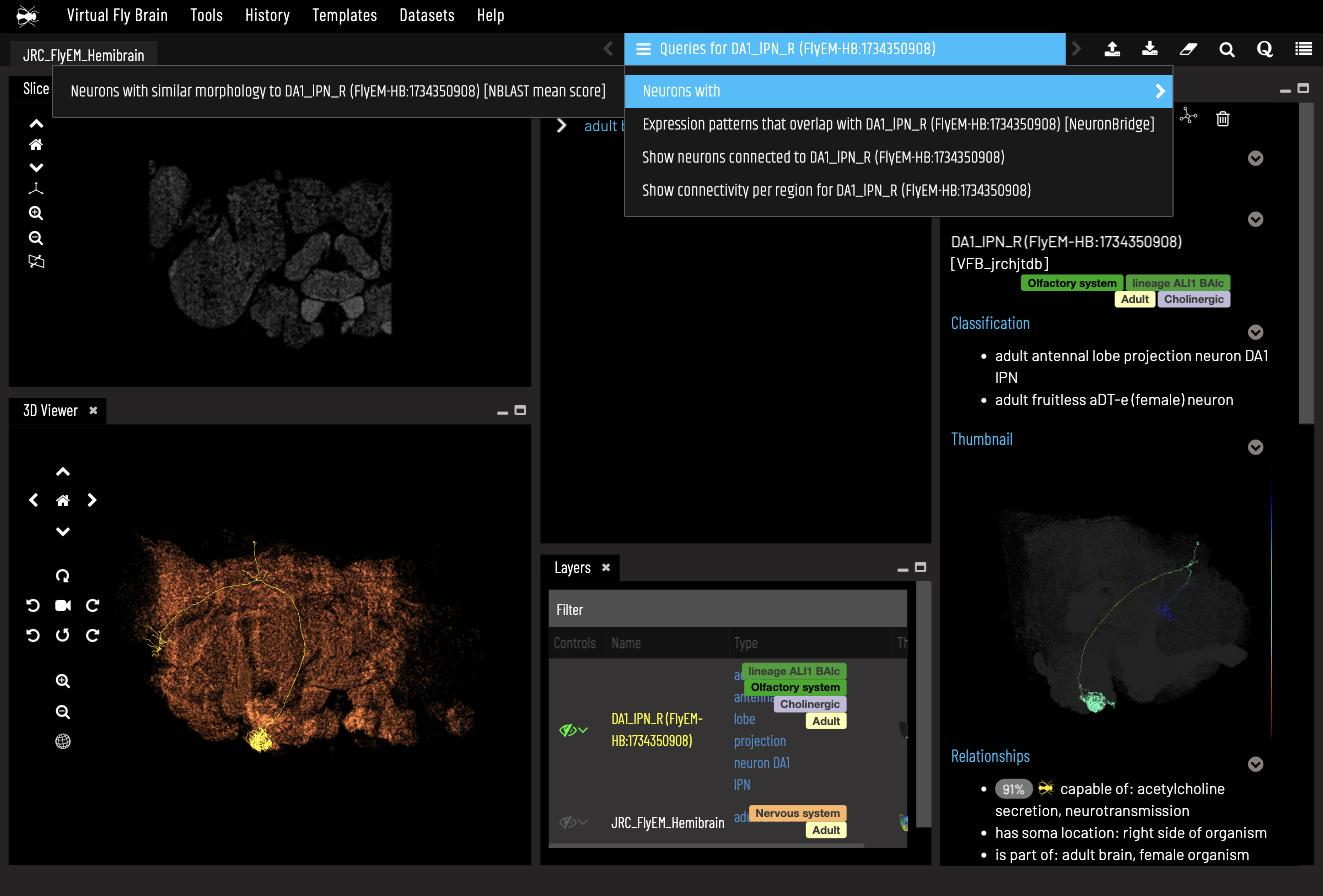
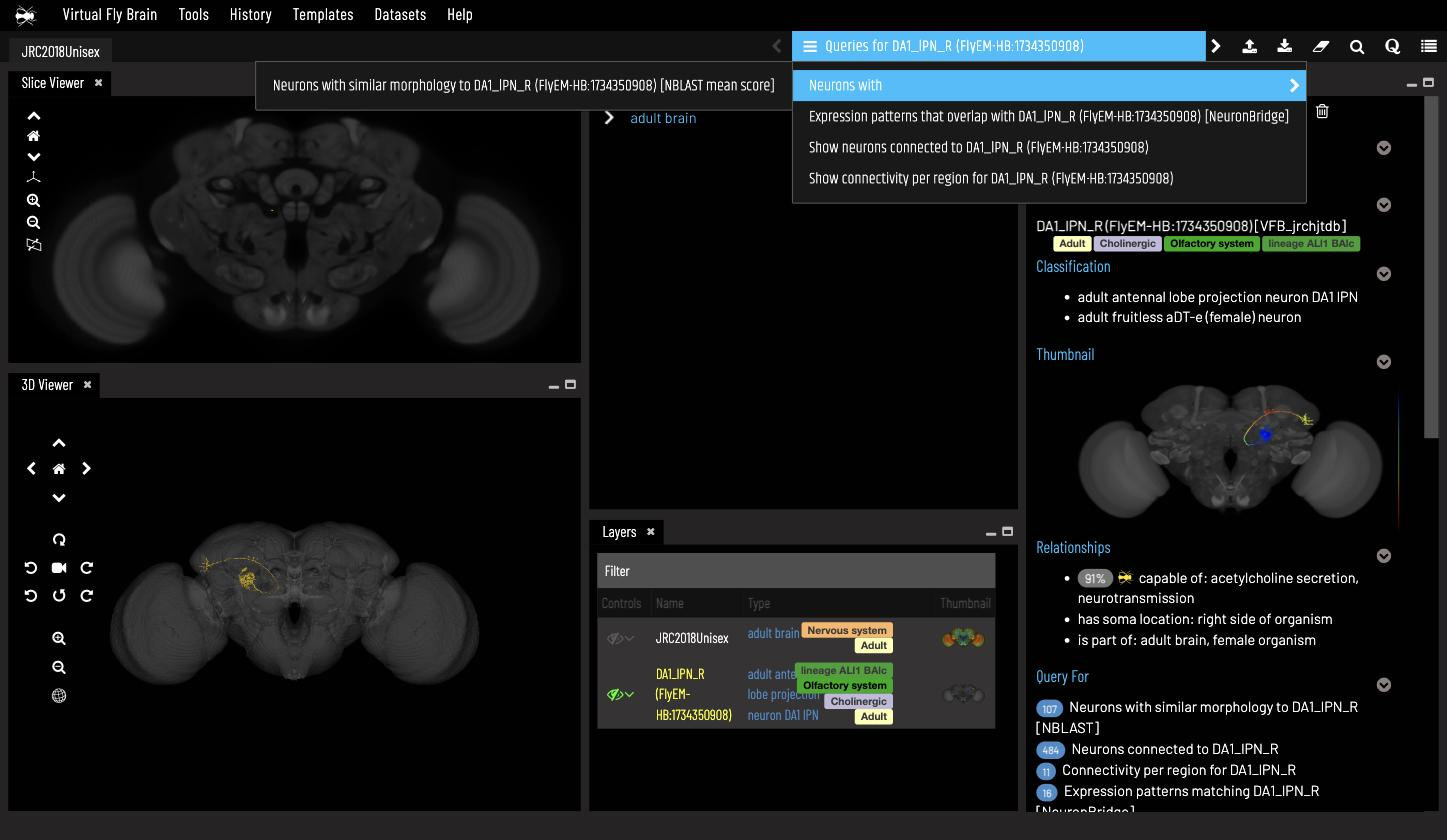
Show browser examples in JRC2018Unisex template space by default

diff --git a/site/content/en/problems/03_visualisation.md b/site/content/en/problems/03_visualisation.md
@@ -24,7 +24,7 @@ mcp_content: |
   >
   > **Assistant** → `get_term_info(VFB_jrchjtdb)` → images aligned to **JRCFIB2018Fum** (`VFB_00101384`) and **JRC2018Unisex** (`VFB_00101567`); classification, predicted transmitter, lineage
   >
-  > **Assistant:** DA1_lPN_R (FlyEM-HB:1734350908) is an *adult antennal lobe projection neuron DA1 lPN* (also typed *adult fruitless aDT-e (female) neuron*), lineage ALl1/BAlc, predicted cholinergic (91%, connectome data). View it in 3D over the hemibrain template: `https://v2.virtualflybrain.org/org.geppetto.frontend/geppetto?id=VFB_jrchjtdb&i=VFB_00101384,VFB_jrchjtdb` — swap the first ID in `i=` to `VFB_00101567` to see it in JRC2018Unisex alongside neurons from other datasets.
+  > **Assistant:** DA1_lPN_R (FlyEM-HB:1734350908) is an *adult antennal lobe projection neuron DA1 lPN* (also typed *adult fruitless aDT-e (female) neuron*), lineage ALl1/BAlc, predicted cholinergic (91%, connectome data). View it in 3D over the standard JRC2018Unisex template: `https://v2.virtualflybrain.org/org.geppetto.frontend/geppetto?id=VFB_jrchjtdb&i=VFB_00101567,VFB_jrchjtdb` — swap the first ID in `i=` to `VFB_00101384` to see it over its native hemibrain EM volume instead.
 
   Download formats (SWC, OBJ, NRRD) are listed per image, so "get me the skeleton file" is also one question away.
 
@@ -55,7 +55,7 @@ browser_content: |
 
   4. **Share the exact view.** The URL updates as you work: it records the template and every loaded neuron. Copy it into a paper, a Slack message or a lab notebook and anyone opens the identical scene — that is what the button below does.
 
-  **Worth noticing:** open an EM neuron like VFB_jrchjtdb and the raw hemibrain EM volume loads behind the skeleton — you can scroll the actual electron microscopy it was traced from.
+  **Worth noticing:** stick to the standard JRC2018Unisex space for comparisons — but if you open an EM neuron with its native template first in `i=` (e.g. `?id=VFB_jrchjtdb&i=VFB_00101384,VFB_jrchjtdb`), the raw hemibrain EM volume loads behind the skeleton and you can scroll the actual electron microscopy it was traced from.
 
 browser_url: "https://v2.virtualflybrain.org/org.geppetto.frontend/geppetto?id=VFB_jrmc37h9&i=VFB_00101567,VFB_jrmc37ha,VFB_jrmc37h9"
 

diff --git a/site/content/en/problems/02_bridging.md b/site/content/en/problems/02_bridging.md
@@ -47,7 +47,9 @@ chat_screenshot_alt: "VFB Chat matching hemibrain DA1_lPN_R to its closest FlyWi
 browser_content: |
   The browser bridges datasets the same way the other routes do — NBLAST similarity plus shared cell-type annotation — but you get to *see* the evidence.
 
-  1. **Open the hemibrain neuron.** Use the button below to open **DA1_lPN_R (FlyEM-HB:1734350908)** — VFB_jrchjtdb. Its EM volume loads in the Slice Viewer and the skeleton appears in 3D.
+  1. **Open the hemibrain neuron in the standard space.** Use the button below to open **DA1_lPN_R (FlyEM-HB:1734350908)** — VFB_jrchjtdb — aligned to the JRC2018Unisex template, the shared coordinate space that makes cross-dataset comparison possible.
+
+     ![DA1_lPN_R over the JRC2018Unisex template with its NBLAST and connectivity queries listed](/img/browser-p2-neuron.png)
 
   2. **Run the NBLAST query.** Click the *Queries for DA1_lPN_R…* bar, hover **Neurons with ▸** and choose **Neurons with similar morphology to DA1_lPN_R [NBLAST mean score]**.
 
@@ -59,7 +61,7 @@ browser_content: |
 
   **Worth noticing:** identity across datasets is a judgement, not a lookup — scores drop smoothly and a different type (DL3 lPN) appears among the true DA1 matches. The browser makes that ambiguity visible.
 
-browser_url: "https://v2.virtualflybrain.org/org.geppetto.frontend/geppetto?id=VFB_jrchjtdb"
+browser_url: "https://v2.virtualflybrain.org/org.geppetto.frontend/geppetto?id=VFB_jrchjtdb&i=VFB_00101567,VFB_jrchjtdb"
 
 when_to_use: |
   - **API** for a defensible, reproducible mapping with NBLAST scores

diff --git a/site/content/en/problems/05_similarity.md b/site/content/en/problems/05_similarity.md
@@ -42,7 +42,7 @@ chat_screenshot_alt: "VFB Chat showing top NBLAST matches for DA1_lPN_R with sco
 browser_content: |
   NBLAST similarity is a stored query in the browser — no R, no registration, instant answer.
 
-  1. **Open the query neuron.** Use the button below for hemibrain **DA1_lPN_R (FlyEM-HB:1734350908)** (VFB_jrchjtdb).
+  1. **Open the query neuron.** Use the button below for hemibrain **DA1_lPN_R (FlyEM-HB:1734350908)** (VFB_jrchjtdb), aligned to the JRC2018Unisex template so every match can be compared in the same space.
 
   2. **Find the query.** Click the *Queries for DA1_lPN_R…* bar and hover **Neurons with ▸**:
 
@@ -56,7 +56,7 @@ browser_content: |
 
   **Worth noticing:** scores fall smoothly with no clean threshold, and a morphologically similar *different* type (DL3 lPN, ≈0.65) sits among the DA1 matches — sort, look, and judge rather than trusting a cut-off.
 
-browser_url: "https://v2.virtualflybrain.org/org.geppetto.frontend/geppetto?id=VFB_jrchjtdb"
+browser_url: "https://v2.virtualflybrain.org/org.geppetto.frontend/geppetto?id=VFB_jrchjtdb&i=VFB_00101567,VFB_jrchjtdb"
 
 when_to_use: |
   - **API** when scores and thresholds matter for your analysis
